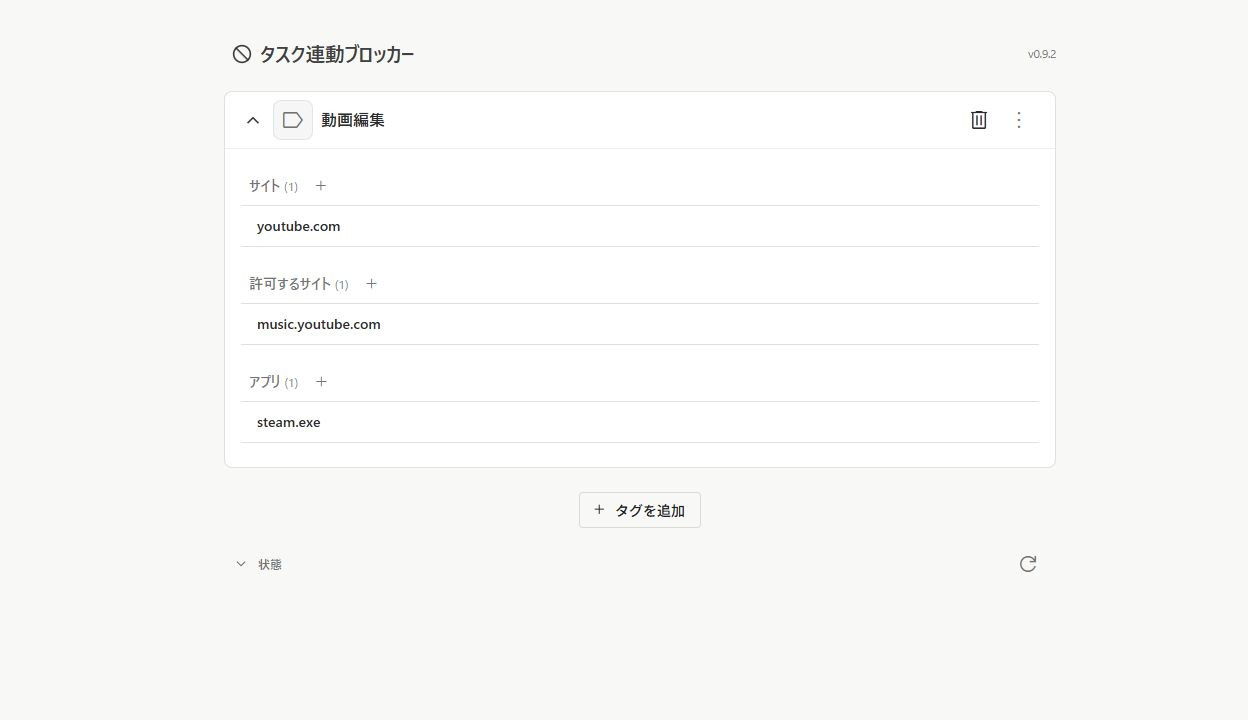
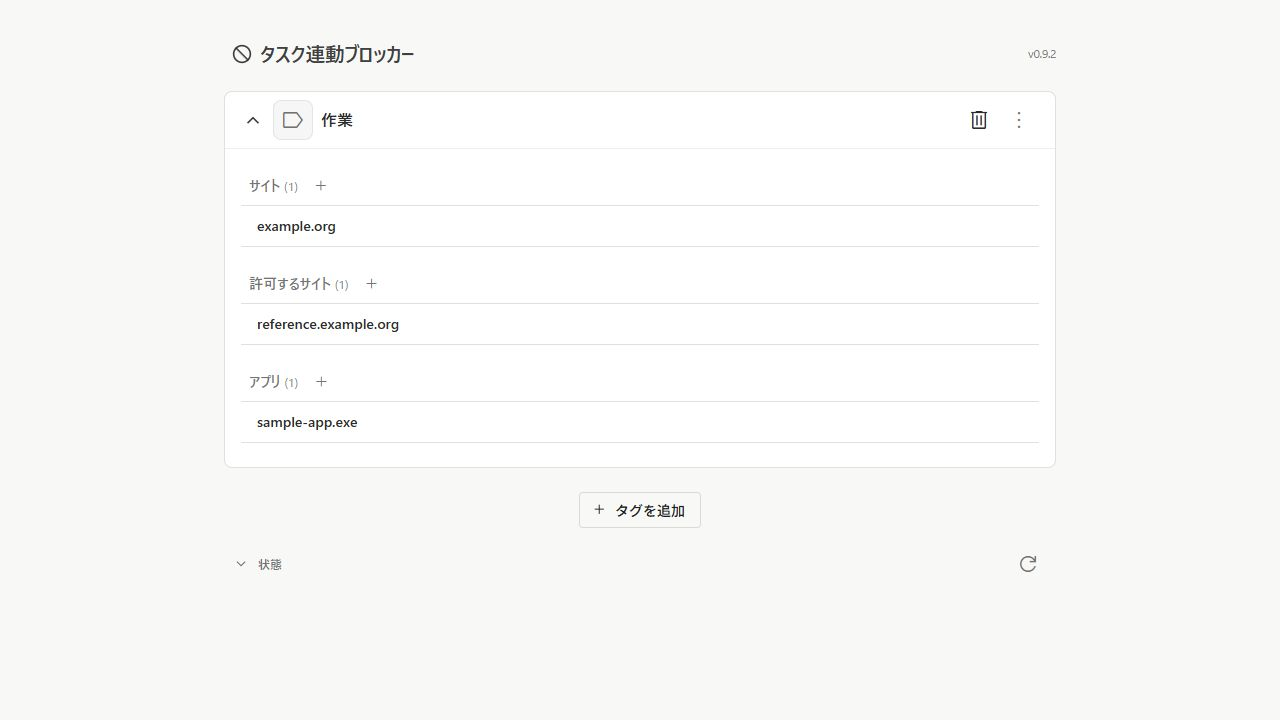
Simplify README for first-time users and use fictional examples

diff --git a/README.md b/README.md
@@ -6,219 +6,80 @@
 <p align="center">Super Productivity用プラグイン · Windows 11 · 日本語 / English / 繁體中文</p>
 
 <p align="center">
-  <a href="#features">機能</a> · <a href="#install">導入</a> · <a href="#usage">使い方</a> ·
-  <a href="#privacy">権限とプライバシー</a> · <a href="#limitations">制限</a> · <a href="#license">ライセンス</a>
+  <a href="#features">機能</a> · <a href="#usage">使い方</a> · <a href="#install">導入</a> ·
+  <a href="#privacy">プライバシー</a> · <a href="#license">ライセンス</a>
 </p>
 
-**公開前レビュー用・開発版 0.9.2。** 現在はソースからのビルド・手動導入が必要です。公開用ライセンスは下記のMIT案を確認中です。Super Productivity公式の製品・公式プラグインではありません。
+![タグごとにサイト・許可サイト・アプリを登録する設定画面](docs/images/settings.jpg)
 
-![タスク連動ブロッカーの設定画面。タグごとにサイト・許可サイト・アプリを登録できます。](docs/images/settings.jpg)
-
-設定画面の表示例（サンプルデータ）。日本語名は「タスク連動ブロッカー」、繁体中国語名は「工作連動封鎖工具」です。
+設定画面の表示例（架空の登録内容）。
 
 <a id="features"></a>
 ## できること
 
-Super Productivityの**既存のタグ**に禁止対象を登録するだけ。タスクを再生すると、そのタスクのタグに合ったルールが有効になります。
+**タスクごとに、集中しやすい環境へ。** Super Productivityのタグに、ブロックするサイト・アプリを登録します。
 
-| 操作・設定 | 動作 |
-| --- | --- |
-| タスクを再生 | 対応するサイト・Windowsアプリを遮断 |
-| 別のタスクを再生 | 新しいタスクのタグに合わせて切替 |
-| タスクを停止・Focus Modeで休憩 | 遮断を解除 |
-| 複数のタグを付ける | 各タグの禁止リストを合算 |
-| 許可サイトを登録 | 禁止サイトの一部を例外として許可。複数タグでも許可優先 |
-| 設定を編集 | 有効な入力を確定すると自動保存 |
+- **再生でブロック、停止で解除。** タスクの切替やFocus Modeの休憩にも連動します。
+- **ブラウザはそのまま使える。** 登録したサイトだけが対象。すでに開いているタブにも対応します。
+- **サイトの一部だけ許可できる。** サブドメインを例外として登録できます。
+- **複数タグに対応。** 禁止リストを合算し、許可サイトを優先します。
+- **設定は自動保存。** 本体のテーマと言語に合わせて表示します。
 
-- **ブラウザは使ったまま、特定サイトだけ遮断。** 新しいページだけでなく、すでに開いている禁止サイトのタブにも対応します。
-- **計測中だけ遮断。** 補助プロセスは遮断対象のある計測中に起動し、停止・休憩で終了します。本体内プラグインとChrome拡張は、再生を受けるため待機します。
-- **ローカルで完結。** アカウント、有料API、クラウド判定、ActivityWatchは不要です。
-- **本体に馴染む設定画面。** 本体のテーマと言語に合わせて表示。Chrome拡張はChromeの言語に合わせ、未対応言語は英語になります。
-
-タスク管理・計測時間・ポモドーロ・AFK時の時間修正はSuper Productivity本体を使います。
-
-### 例：動画編集に集中する
-
-| タグ「動画編集」の設定 | 対象 |
-| --- | --- |
-| サイト | `youtube.com` |
-| 許可するサイト | `music.youtube.com` |
-| アプリ | `steam.exe` |
-
-このタグのタスクを再生すると、YouTubeとSteamを遮断し、YouTube Musicは使えます。リストにないサイト・アプリは対象になりません。
-
-> [!WARNING]
-> アプリの遮断は**強制終了**です。起動済みのアプリも対象になり、未保存の内容は失われます。保存猶予や確認画面はありません。試す前に作業を保存してください。
-
-<a id="install"></a>
-## 導入
-
-### 対応環境
-
-| 項目 | 現在の対応範囲 |
-| --- | --- |
-| OS | Windows 11（開発・実機確認環境） |
-| 本体 | Super Productivityデスクトップ版 **19.2.0**で確認。Web版・モバイル版は対象外 |
-| ブラウザ | **Chrome 156**で確認。Manifest V3、宣言上の最低版は120。ほかの版の動作を保証するものではありません |
-| 補助機能の実行 | .NET 10とASP.NET Core 10ランタイム。下記SDKには両方含まれます |
-| ビルド | Node.js **20.15以上**、.NET **10 SDK**、Git |
-
-Edge・Brave・Vivaldi等でも同じ拡張コードを使う設計ですが、**未検証**です。ブラウザごとに導入・動作確認が必要です。macOS・Linux・Firefox・シークレットモードでの利用は対応確認していません。
-
-### 1. ビルドする
-
-[Node.js](https://nodejs.org/en/download)、[.NET 10 SDK](https://dotnet.microsoft.com/en-us/download/dotnet/10.0)、[Git](https://git-scm.com/downloads)を用意し、PowerShellで実行します。
-
-すでに本プラグインを使っている場合は、先にタスクを停止してからビルドしてください。
-
-```powershell
-git clone https://github.com/Show-Born-prog/super-productivity-task-linked-blocker.git
-cd super-productivity-task-linked-blocker
-npm run build
-```
-
-追加のnpmパッケージのインストールは不要です。生成物は次の3つです。
-
-```text
-dist/
-├── super-focus-guard.zip   # Super Productivity用プラグイン
-├── extension/             # Chrome拡張
-└── bridge/                # 必要なときだけ起動するWindows補助機能
-```
-
-**ビルドしたフォルダーは、その場所に置いたまま使ってください。** ZIPだけの移動では動作しません。配置を変える場合は、移動先で再ビルドして本体へ再導入します。設定は元のフォルダーの`.local/runtime/`にあるため、移動前にバックアップしてください。
-
-### 2. Chrome拡張を読み込む
-
-1. Chromeで `chrome://extensions` を開き、右上の**デベロッパー モード**をオン。
-2. **パッケージ化されていない拡張機能を読み込む**を押す。
-3. ビルドしたフォルダーの `dist/extension` を選ぶ。
-4. 「タスク連動ブロッカー」が有効で、エラーが出ていないことを確認。
-
-Chrome Web Storeでは配布していません。拡張IDは `kjlclkomkeagcfgfjhjlmigdnobdiccp` です。同梱の公開鍵はID固定用で、秘密鍵ではありません。
-
-### 3. Super Productivityへ導入する
-
-1. タスクを停止し、**設定 → プラグイン → プラグインファイルを選択する**を開く。
-2. `dist/super-focus-guard.zip` を選び、プラグインを有効にする。
-3. Node実行許可の用途を確認して許可。ローカル設定の保存と、補助機能の起動に使います。
-4. 左メニューの「タスク連動ブロッカー」を開く。
-
-初回導入・再導入時に許可が必要になる場合があります。タスク開始・停止のたびにPowerShellやUACを操作する方式ではありません。
+タスク管理や時間計測は、使い慣れたSuper Productivityのままです。
 
 <a id="usage"></a>
 ## 使い方
 
-1. <strong>「タグを追加」</strong>から、本体にあるタグを選ぶ。変更するときはタグ名の左のアイコンを押す。
-2. <strong>「サイト」「アプリ」の横の＋</strong>から対象を追加し、Enterで確定する。
-3. タスクにそのタグを付け、**再生ボタン**を押す。停止すると解除される。
+1. **タグを選ぶ。** 本体にあるタグを「タグを追加」から選択。
+2. **ブロックする対象を登録。** 「サイト」「アプリ」の＋から追加。
+3. **タスクを再生。** そのタグに登録したルールが自動で有効になります。
 
-| 入力 | 正しい例 | 入力しないもの |
+| 登録するもの | 入力例 |
+| --- | --- |
+| サイトのドメイン | `example.org` |
+| アプリの実行ファイル名 | `sample-app.exe`（架空のアプリ） |
+
+たとえば `example.org` を禁止し、`reference.example.org` を許可すれば、そのサブドメインは利用できます。許可サイトはタグ右端の **︙** から追加できます。
+
+**アプリは強制終了されます。未保存の内容は失われるため、登録前に保存してください。**
+
+<a id="install"></a>
+## 導入
+
+**動作確認環境：Windows 11 / Super Productivity 19.2.0 / Chrome 156**
+
+現在は開発版です。[ビルド手順](docs/BUILD.md)で導入ファイルを生成してから、以下の2つを読み込みます。
+
+| 導入先 | 読み込むもの | 操作 |
 | --- | --- | --- |
-| サイト | `youtube.com`、`example.org` | `https://`、パス、ポート番号、ワイルドカード |
-| アプリ | `steam.exe`、`discord.exe` | 実行ファイルのフルパス、フォルダー名 |
+| Chrome | `dist/extension` | `chrome://extensions` → デベロッパー モード →「パッケージ化されていない拡張機能を読み込む」 |
+| Super Productivity | `dist/super-focus-guard.zip` | 設定 → プラグイン → ファイルを選択 → 有効化 |
 
-サイトは登録ドメインとそのサブドメインが対象です。アプリは実行ファイル名で照合するので、同名のプロセスが複数あればすべて対象になります。
+本体のNode実行許可は、設定の保存とWindows補助機能の起動に使います。導入後は左メニューの「タスク連動ブロッカー」から設定できます。
 
-### 特定のサイトだけ許可する
-
-タグ名の右の <strong>︙ →「許可サイトを追加」</strong>をオンにし、出てきた欄へ `music.youtube.com` などを追加します。許可もサブドメインを含み、別タグの禁止より優先します。
-
-オフにすると許可機能が無効になり、欄は隠れます。入力内容は残るので、再びオンにすると戻ります。
-
-### 編集・削除・保存
-
-- 項目名を押すと編集。Enter・チェックボタン・欄外への移動で確定。
-- Escape・×で編集中の変更を取り消し。
-- 行にマウスを置くかキーボードでフォーカスすると、右端に削除ボタンが表示。
-- **保存ボタンはありません。** 確定した変更を自動保存します。不正な入力で有効な設定を上書きしません。保存失敗時はエラーと再試行が表示されます。
-
-接続状態・有効なルールは、画面最下部の<strong>「状態」</strong>を展開して確認できます。
+Chrome拡張は手動導入です。ほかのChromium系ブラウザは、現時点では動作未確認です。
 
 <a id="privacy"></a>
-## 権限とプライバシー
+## プライバシー
 
-| 権限・接続 | 用途 |
-| --- | --- |
-| 本体のタスク・タグ読取 | 計測中タスクと既存タグに合うルールを選ぶ |
-| 本体の `nodeExecution` | ローカルファイルの読み書きと補助機能の起動。この権限自体は強い権限なので、信頼できるソースからのみ導入してください |
-| Chromeの `tabs` | 開いている禁止サイトを判定し、遮断画面へ切り替える |
-| Chromeの `declarativeNetRequest` | 禁止ドメインへの新しいページ移動を遮断する |
-| Chromeの `alarms` | 状態の期限切れを確認する |
-| `127.0.0.1`への接続 | 同じPCの補助機能と通信。WebSocketはポート47821を使う |
+**ブロックの処理と設定保存はPC内で完結します。** アカウントやクラウド接続は不要です。
 
-- 登録ルールと短命の連携ファイルは、ビルドしたフォルダー内の `.local/runtime/` に保存。本体のクラウド同期へルールを載せません。
-- 解除後にタブを戻すため、元のURLを拡張の**メモリ内だけ**に保持。URLをログ・ディスク・補助機能へ送りません。
-- 補助機能は登録名のプロセスを確認。キー入力・画面・クリップボードを取得しません。
-- このプラグインから開発者への通信、アクセス解析、クラウド判定はありません。本体やChrome自身の更新・同期等の通信は、それぞれの設定に従います。
-- `hosts`、Windowsサービス、タスクスケジューラー、ファイアウォール設定を変更しません。
+- 設定はローカル保存。開発者への送信やアクセス解析はありません。
+- ブラウザのタブ情報は、禁止サイトの判定と解除後の復帰に使います。
+- キー入力・画面・クリップボードは取得しません。
+- Windows補助機能は必要な計測中だけ起動し、停止・休憩で終了します。
 
-通信はループバックに限定し、登録した拡張のOriginを確認します。同じPCの悪意あるプログラムに対する防御境界を保証するものではありません。
+権限と保存先の詳細は [データと権限](docs/PRIVACY.md)を参照してください。
 
-<a id="limitations"></a>
-## 現在の制限
+## 不具合報告
 
-- **自分の作業を支えるツールです。** 拡張の無効化や設定変更を防ぐロック機能、OSの実行制御機能はありません。
-- アプリは約500msごとの確認後に終了します。起動前の拒否ではないため、一瞬表示されることがあります。高い権限で動くアプリ等では終了できない場合があります。未登録の子プロセスまで一括終了しません。
-- 本体・プラグインの読込直後は計測状態が未確認になることがあります。タスクをいったん停止して再生してください。最後に選んだタスクだけを根拠に遮断は開始しません。
-- 接続切れ・期限切れでは古いルールを解除する設計です。ブラウザの休止・復帰やページ遷移方法を含め、すべての組合せを検証したわけではありません。
-- 本体の内部パーツの外観も使っているため、本体の更新で表示や連携に修正が必要になる場合があります。
-- 導入・更新は手動です。署名済みインストーラーや自動更新は提供していません。
-
-Windows 11上で、タスク再生・停止、タグ切替・複数タグ、既存／新規タブ、許可サイト、Focus休憩、AFK、拡張停止・本体終了後の解除、Steamの遮断を実機確認しています。すべてのアプリ・ブラウザ・バージョンの動作を保証するものではありません。
-
-## 困ったとき
-
-| 症状 | 確認すること |
-| --- | --- |
-| 再生しても遮断されない | 対象タグ、入力の確定、拡張の有効状態。「状態」の補助・ブラウザ接続も確認 |
-| Musicも遮断される | 許可欄がオンで、`music.youtube.com` が登録されているか |
-| 停止後もエラー画面が残る | ページを再読み込み。解除を急ぐ場合はChromeで本拡張を無効化 |
-| 補助が起動しない | .NET／ASP.NET Core 10、フォルダーの配置、ポート47821の競合を確認 |
-
-更新時はタスクを停止し、同じ場所で再ビルドしてZIPを再導入します。Chrome側も `chrome://extensions` の再読み込みボタンで更新してください。設定のバックアップは `.local/runtime/` を別の場所へコピーします。
-
-利用をやめるときは、タスクを停止し、本体のプラグインとChrome拡張を無効化・削除してください。設定も消す場合は、バックアップ後に `.local/runtime/` を削除します。
-
-## 不具合報告・開発への参加
-
-[このリポジトリのIssues](https://github.com/Show-Born-prog/super-productivity-task-linked-blocker/issues)へ、OS・本体・Chrome・本プラグインの版、再現手順、期待した動作と実際の動作を添えてください。個人のタスク名・URL・登録アプリ・認証情報を含む設定やログは、そのまま添付しないでください。プラグイン固有の不具合はこちらへお願いします。
-
-<details>
-<summary>ソース構成と検証コマンド</summary>
-
-```text
-plugin/     本体のタスク連動・設定画面
-extension/  Chrome拡張と遮断画面
-bridge/     Windowsアプリ遮断とローカル中継
-shared/     ルール判定・翻訳の共通処理
-locales/    日本語・英語・繁体中国語の翻訳
-tests/      自動試験とWindows補助機能の試験
-```
-
-```powershell
-npm run build
-npm test
-npm run test:native
-```
-
-`test:native` はWindows上の実.NET補助機能を架空データで検証します。本体やChromeを操作する実機試験とは別です。実機確認には専用タスクと安全な試験対象を使ってください。`.local/`・`.research/`・`.test-tmp/`・`dist/`はGitの追跡対象外です。
-
-</details>
+[Issues](https://github.com/Show-Born-prog/super-productivity-task-linked-blocker/issues)へ、使用バージョンと再現手順をお知らせください。設定やスクリーンショットに個人情報が含まれていないか、投稿前に確認してください。
 
 <a id="license"></a>
 ## ライセンスと謝辞
 
-**独自コードの公開ライセンスは、MITを提案中です。作者の確認前のため、まだ採用していません。** [MITライセンス案](docs/LICENSE-MIT.proposed.txt)を用意しています。採用する場合はルートの `LICENSE` として確定します。公開するだけでは独自コードにOSSライセンスが付くわけではありません。
+独自コードの公開ライセンスは [MIT案](docs/LICENSE-MIT.proposed.txt)を確認中です。
 
-転用した素材には、すでに各ライセンスが適用されています。
+画面の外観にはSuper Productivity・Angular Material（MIT）、アイコンにはLucide（ISC）を使用しています。出典とライセンス全文は [THIRD_PARTY_NOTICES.md](THIRD_PARTY_NOTICES.md)にまとめています。
 
-| 出典 | 利用箇所 | ライセンス |
-| --- | --- | --- |
-| [Super Productivity](https://github.com/super-productivity/super-productivity) | 設定画面・タスク行の外観 | MIT |
-| [Angular Material](https://github.com/angular/components) | ボタン・入力・メニュー等の外観 | MIT |
-| [Lucide](https://lucide.dev/icons/ban) | 本体とChrome拡張の禁止マーク | ISC |
-
-完全な表記・変更箇所・比較用素材の出典は [THIRD_PARTY_NOTICES.md](THIRD_PARTY_NOTICES.md)を参照してください。元の著作権表示とライセンス文は、ソースと生成した配布物へ保持します。
-
-本プロジェクトは各出典プロジェクトとは独立しており、公式の承認・提携・サポートを示すものではありません。
+本プロジェクトはSuper Productivity公式とは独立したプラグインです。

diff --git a/CHECKPOINT.md b/CHECKPOINT.md
@@ -2,11 +2,11 @@
 
 ## 現在の到達点
 
-**公開前READMEのレビュー準備（製品版0.9.2のまま）。** 繁体字名は変更しないというユーザー決定。GitHubはprivateを読取確認し、push・公開変更・Release作成はしていない。READMEを利用者向けに書き直し、開発経緯を除き、架空データで配布UIを表示した画面例を追加。公式MIT・19.2.0／現行プラグインガイド・実機内Angularのライセンス・Lucideを確認。参考に実読した本家／PowerToys／uBlockのREADME、スター数、確認範囲は`docs/PUBLICATION_REVIEW.md`。独自コードはMIT案を用意しただけで採用は未決定。作者確認後にLICENSEとpackage metadataを確定する。
+**公開前READMEのレビュー準備（製品版0.9.2のまま）。** 繁体字名は変更しないというユーザー決定。GitHubはprivateを読取確認し、push・公開変更・Release作成はしていない。初見の利用者向けにREADMEを86行へ整理し、細かな編集操作・長い制限説明・検討時の別製品名を削除。ビルドと権限の詳細は`docs/BUILD.md`・`docs/PRIVACY.md`へ分けた。画面例もexample.org／reference.example.org／sample-app.exeの架空登録へ撮り直し、日常設定は変更しない。自前ビルドの質問にはビルド済み配布案を説明したが、配布方式の実装は未変更。公式MIT・19.2.0／現行プラグインガイド・実機内Angularのライセンス・Lucideを確認。参考に実読した本家／PowerToys／uBlockのREADME、スター数、確認範囲は`docs/PUBLICATION_REVIEW.md`。独自コードはMIT案を用意しただけで採用は未決定。作者確認後にLICENSEとpackage metadataを確定する。
 
 - 本家とAngularのMIT原文を個別に保持し、アイコンのISC全文と合わせたNOTICEをZIP・拡張・補助へ同梱。ビルドの収録試験を追加。遮断・保存・言語・UIの実行コードは変更なし。通常配置の不足していた補助NOTICEはテキストだけ同期し、通常配置でもJS68件合格。
 - 計測中の補助DLLがロックされ通常配置のpublishは失敗したため、日常データを含まない`.test-tmp/publication-review`のソースコピーで全ビルド成功・JS68件合格。HTML83,354バイト。本体の停止・再導入や実アプリ終了試験は行っていない。別パスでの.NETビルドは生成バイナリのハッシュが異なるため、バイナリ一致とは報告しない。ソース差分と配置用定数を除いたプラグインJSで実行ロジック不変を確認。
-- ローカルリンク18件、画像、実機由来Angularのライセンス原文一致、追跡候補98ファイルの除外対象・既知秘密鍵／トークンパターンを確認し問題なし。これは包括的な情報漏洩保証ではない。READMEは内蔵ブラウザーで画像・目次・折りたたみ・出典リンクと360px／通常幅を確認。画面例サーバー47822は終了し、閲覧用47826だけレビュー用に残す。次は作者によるREADME／MIT案の確認。公開は未許可。
+- 初稿で画像、実機由来Angularのライセンス原文一致、追跡候補98ファイルの除外対象・既知秘密鍵／トークンパターンを確認し問題なし。これは包括的な情報漏洩保証ではない。今回の本文・画像のみの改訂では、ローカルリンク20件、通常幅／360pxの表示、架空データの画像、旧い文面・実在サービスの登録例の不在、別資料への実遷移を確認。実行コードは差分なしでビルド・遮断試験は再実施していない。ブラウザー操作の古い接続で撮影が失敗したが、操作セッションの再初期化後に撮影・検証できた。画面例サーバー47822は終了し、閲覧用47826だけレビュー用に残す。次は作者によるREADME／MIT案の確認。公開は未許可。
 
 **0.9.2：左メニューの言語追従を修正し、繁体字を「工作連動封鎖工具」「工作進行中」に統一。** 本体19.2.0の登録APIは表示名を文字列として固定し、更新APIがないことを確認。languageChangeフックとサイドバーだけの変更監視で、自分のSVGマーカーを持つ項目の既存テキストノードだけを更新する。本体の再描画・項目再生成にも追従し、ほかの項目やタスク・保存／通信／遮断処理は変更しない。定期タイマー・プロセス・権限追加なし。アンロードで監視を解除しDOM参照も破棄。
 

diff --git a/docs/BUILD.md b/docs/BUILD.md
@@ -1,0 +1,54 @@
+# ソースからビルドする
+
+現行の開発版の導入手順です。配布ファイルを置くだけで導入する方式は、まだ実装していません。
+
+## 必要なもの
+
+- Windows 11
+- [Node.js 20.15以上](https://nodejs.org/en/download)
+- [.NET 10 SDK](https://dotnet.microsoft.com/en-us/download/dotnet/10.0)（補助機能の実行に必要な.NET／ASP.NET Coreランタイムも含む）
+- [Git](https://git-scm.com/downloads)
+
+## ビルド
+
+使い続ける場所でPowerShellを開き、実行します。すでに本プラグインを利用中の場合は、先にタスクを停止してください。
+
+```powershell
+git clone https://github.com/Show-Born-prog/super-productivity-task-linked-blocker.git
+cd super-productivity-task-linked-blocker
+npm run build
+```
+
+追加のnpmパッケージのインストールは不要です。
+
+```text
+dist/
+├── super-focus-guard.zip   # Super Productivityへ読み込む
+├── extension/             # Chromeへ読み込む
+└── bridge/                # 補助機能。プラグインから自動起動
+```
+
+**ビルドしたフォルダーは、その場所に置いたまま使ってください。** 現行版は補助機能と設定の場所をビルド時に決めるため、ZIPだけを別のPCやフォルダーへ移しても使えません。
+
+生成後は [READMEの導入手順](../README.md#install)へ進みます。最初はタスクを停止してから再生し、登録したサイトが遮断され、停止で解除されることを確認してください。
+
+## 更新・移動・削除
+
+- **更新：** タスクを停止し、同じ場所で再ビルドしてZIPを再導入。Chrome側も `chrome://extensions` で拡張を再読み込みします。
+- **移動：** `.local/runtime/` をバックアップし、移動先で再ビルド・再導入します。設定も移動先へ引き継いでください。
+- **削除：** タスクを停止し、本体プラグインとChrome拡張を削除。設定も消す場合は、バックアップ後に `.local/runtime/` を削除します。
+
+## 起動時に動かない場合
+
+- 本体・プラグインの読込直後は、タスクをいったん停止して再生してください。
+- .NET／ASP.NET Core 10の有無、ビルドしたフォルダーの場所、ポート47821の競合を確認してください。
+- 接続状態はプラグイン最下部の「状態」から確認できます。
+
+## 開発時の検証
+
+```powershell
+npm test
+npm run test:native
+```
+
+`test:native` はWindows上の実.NET補助機能と架空データで行う試験です。本体やChromeを操作する実機試験とは区別します。

diff --git a/docs/PRIVACY.md b/docs/PRIVACY.md
@@ -1,0 +1,32 @@
+# データと権限
+
+## 保存するもの
+
+登録ルールと一時的な連携ファイルは、ビルドしたフォルダー内の `.local/runtime/` に保存します。ルールを本体のクラウド同期へ載せません。
+
+解除後にタブを戻すため、元のURLをChrome拡張のメモリ内に保持します。URLをログ・ディスク・Windows補助機能へ送りません。
+
+タスク名やメモを補助機能へ渡さず、キー入力・画面・クリップボードも取得しません。
+
+## 必要な権限
+
+| 権限・接続 | 用途 |
+| --- | --- |
+| 本体のタスク・タグ読取 | 計測中タスクのタグに合うルールを選択 |
+| 本体の `nodeExecution` | ローカル設定の読み書きと補助機能の起動 |
+| Chromeの `tabs` | 既存タブの禁止サイト判定と画面の切替 |
+| Chromeの `declarativeNetRequest` | 禁止ドメインへの新しいページ移動を遮断 |
+| Chromeの `alarms` | 状態の期限切れを確認 |
+| `127.0.0.1`への接続 | 同じPCの補助機能とWebSocketで通信（ポート47821） |
+
+`nodeExecution` は任意のプログラムも実行できる強い権限です。導入元とソースを信頼できる場合に許可してください。
+
+通信はPC内に限定し、登録した拡張のOriginを確認します。この仕組みは、同じPCの悪意あるプログラムを隔離するものではありません。
+
+## 外部通信と常駐処理
+
+本プラグインから開発者への通信、アクセス解析、クラウド判定はありません。本体とChrome自身の更新・同期等の通信は、それぞれの設定に従います。
+
+Windows補助機能は、遮断対象のある計測中だけ起動し、停止・休憩・対象なしで終了します。本体内プラグインとChrome拡張は、タスク再生を受けるため待機します。
+
+`hosts`、Windowsサービス、タスクスケジューラー、ファイアウォール設定は変更しません。

diff --git a/TEST_PLAN.md b/TEST_PLAN.md
@@ -12,6 +12,7 @@
 - 本体19.2.0と現行のMIT／開発ガイド、実機内Angular Materialのライセンス、Lucideの原文を確認。各出典・変更箇所・許諾文へのリンクと独自コードのMIT案を区別する。作者の採用確認、リポジトリ公開、Release作成、ストア・本家掲載は未実施。
 - ZIP・拡張・補助のNOTICEが出典の全文と一致し、ZIP内NOTICEとHTML内の外観NOTICEも保持する配布試験を追加。通常配置は計測中の補助DLLのロックでpublish失敗。日常データのないソースコピーでビルド成功・JS68件合格、HTML83,354バイト。遮断の実行コードは不変で、.NET／実アプリの再試験はしていない。
 - ローカルリンク18件と画像形式・表示、実機内Angularライセンスの原文一致、追跡候補98ファイルの既知機密パターンと除外対象の不在を確認。内蔵ブラウザーで通常幅／360pxの横はみ出しなし、目次の位置、折りたたみ、出典とライセンス全文への遷移を確認。GitHub実ページのレンダリングや全外部リンクの疎通確認とは区別する。
+- 利用者向け説明へ絞った改訂では、本文・画面例から実在サービスの登録例と内輪の製品名を除き、細かな操作・長い制限一覧を削除。ビルド／権限の別資料を含めローカルリンク20件を確認。実UIの架空登録（example.org、reference.example.org、sample-app.exe）を撮影し、本文・画像の表示、通常幅／360pxの横はみ出しなし、別資料への実遷移を内蔵ブラウザーで確認。コードは変更せず、既存機能の再試験・ビルドはこの改訂では行わない。
 
 ## 0.9.1〜0.9.2：左メニュー追従と繁体字の用語
 

diff --git a/THIRD_PARTY_NOTICES.md b/THIRD_PARTY_NOTICES.md
@@ -26,8 +26,8 @@ embedded in the plugin HTML, and the Chrome icons retain their own notice.
 Keep these notices when redistributing those materials.
 
 The .NET/ASP.NET Core runtime and Node.js are prerequisites, not bundled copies.
-No Umbra source code is included. The README references other projects as
-examples; their code, text and logos have not been copied into it.
+The README's example registrations are fictional. Reference projects' README
+text, code and logos have not been copied into it.
 
 The license for this project's original code is a separate decision; see the
 [proposed MIT license](docs/LICENSE-MIT.proposed.txt). That proposal does not
